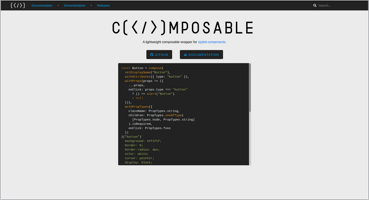
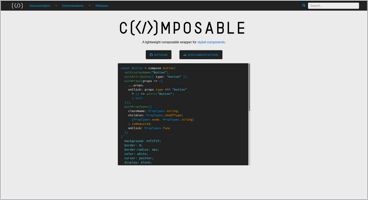
Update composable page

diff --git a/src/pages/composable-styled-components.js b/src/pages/composable-styled-components.js
@@ -13,7 +13,26 @@ const ComposableStyledComponents = () => (
         >
           styled-components
         </OutsideLink>
-        . The documentation website was built with this package!
+        . The package is created using a custom RollupJS configuration, is
+        backed by 100% test coverage and is published to&nbsp;
+        <OutsideLink
+          aria-label="Navigate to npm composable-styled-components package page"
+          href="https://www.npmjs.com/package/composable-styled-components"
+          style={{ padding: 0 }}
+        >
+          npm
+        </OutsideLink>
+        . Meanwhile, the documentation website is built in Typescript, optimized
+        for SEO with&nbsp;
+        <OutsideLink
+          aria-label="Navigate to Algolia home page"
+          href="https://www.algolia.com"
+          style={{ padding: 0 }}
+        >
+          Algolia
+        </OutsideLink>
+        &nbsp;search engine crawler integration, and utilizes the
+        composable-styled-components package to construct reusable components.
       </>
     }
     head={{
@@ -23,8 +42,8 @@ const ComposableStyledComponents = () => (
     }}
     filedetails={{
       active: true,
-      location: "https://composable-styled-components.vercel.app",
-      status: "In Development",
+      location: "https://composable.mattcarlotta.sh",
+      status: "In Orbit",
       source: "https://github.com/mattcarlotta/composable-styled-components",
     }}
     snapshotdirectory="composable"
@@ -44,8 +63,29 @@ const ComposableStyledComponents = () => (
         alt: "demo-preview",
         title: "Demos",
       },
+      {
+        src: "composableReleases",
+        alt: "releases-preview",
+        title: "Releases",
+      },
+      {
+        src: "composableSearch",
+        alt: "search-preview",
+        title: "Search",
+      },
     ]}
-    tech={["Babel", "Enzyme", "ReactJS", "NextJS", "NPM", "Rollup", "Webpack"]}
+    tech={[
+      "Babel",
+      "Cypress",
+      "Enzyme",
+      "Jest",
+      "ReactJS",
+      "Typescript (website)",
+      "NextJS",
+      "NPM",
+      "Rollup",
+      "Webpack",
+    ]}
   />
 );
 

diff --git a/e2e/integration/composablestyledcomponents/index.spec.js b/e2e/integration/composablestyledcomponents/index.spec.js
@@ -11,14 +11,14 @@ context("Composable Styled Components Project Page", () => {
   });
 
   it("displays the project details", () => {
-    cy.get("[data-testid='status']").should("have.text", "In Development");
+    cy.get("[data-testid='status']").should("have.text", "In Orbit");
     cy.get("[data-testid='filename']").should(
       "have.text",
       "Composable Styled Components",
     );
     cy.get("[data-testid='location-link']").should(
       "have.text",
-      "https://composable-styled-components.vercel.app",
+      "https://composable.mattcarlotta.sh",
     );
     cy.get("[data-testid='location-link']").should(
       "have.attr",
@@ -44,15 +44,15 @@ context("Composable Styled Components Project Page", () => {
     cy.get("[data-testid='tech']").should("have.length", 1);
   });
 
-  it("displays the 3 project snapshot thumbnails", () => {
+  it("displays the 5 project snapshot thumbnails", () => {
     cy.get("[data-testid='snapshots']").should("have.length", 1);
     cy.get("[data-testid='snapshots']")
       .find("picture")
-      .should("have.length", 3);
+      .should("have.length", 5);
   });
 
   it("displays a modal for individual project snapshots", () => {
-    ["Home", "API", "Demos"].forEach(id => {
+    ["Home", "API", "Demos", "Releases", "Search"].forEach(id => {
       cy.get(`[data-testid='${id}']`).click();
 
       const src = `/projects/composable/composable${id.replace(/ /g, "")}`;
